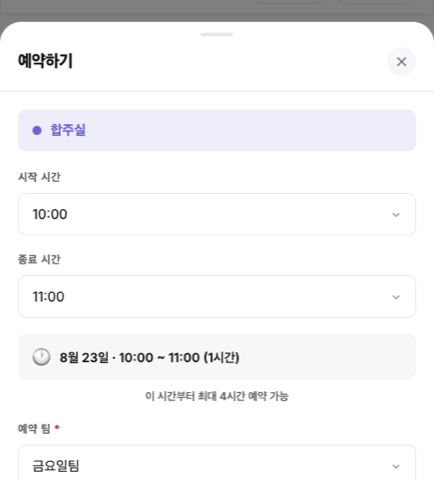
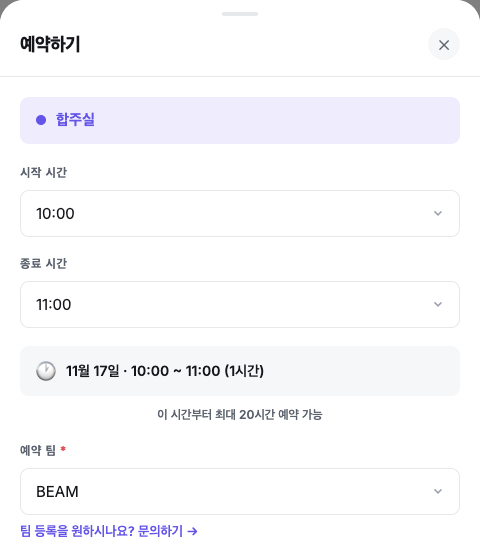
fix: 이용안내 — 팀 없이 예약 반영
'등록된 팀만 고를 수 있다' 는 '팀 없이 예약' 이 생긴 뒤로 틀린 말이다.
이름만 적으면 된다고 바꾸고, 예약 길이 상한('이틀까지')도 실제 규칙
(다음날 새벽까지)에 맞췄다. 예약 화면 캡처 5장을 지금 화면으로 다시
찍었다 (계좌 숫자는 가림).

diff --git a/frontend/guide.html b/frontend/guide.html
@@ -67,7 +67,8 @@
         </figure>
         <ul class="guide-list">
           <li><b>시작·종료 시간</b> — 자정을 넘겨 <b id="guideOvernight">다음날 새벽 6시</b>까지 고를 수 있습니다.</li>
-          <li><b>합주실</b> — 등록된 팀 중에서 고릅니다. 목록에 팀이 없으면 <b>문의하기</b> 로 등록을 요청해주세요.</li>
+          <li><b>합주실</b> — 등록된 팀 중에서 고릅니다. 팀이 없으면 맨 아래 <b>팀 없이 예약</b> 을 골라 이름만 적으면 됩니다
+              (연락처는 선택, 시간당 요금). 팀 등록은 <b>문의하기</b> 로 요청해주세요.</li>
           <li><b>개인연습실</b> — 이름을 적습니다. 도어즈 멤버이고 이번 달 회비가 확인되면 <b>무료로 바로 확정</b>됩니다.
               그렇지 않으면 시간당 요금이 붙고, 멤버가 아닌 분은 <b>연락처가 꼭 필요</b>합니다.</li>
           <li><b>참여 멤버 · 메모</b> — 안 적어도 됩니다.</li>
@@ -107,7 +108,7 @@
     <section class="guide-notes">
       <h2>알아두면 좋은 것</h2>
       <ul class="guide-list">
-        <li>한 번에 예약할 수 있는 시간은 <b>하루를 넘겨 이틀까지</b>입니다.</li>
+        <li>한 번에 이어서 잡을 수 있는 건 <b>다음날 새벽까지</b>입니다 (위 '시작·종료 시간'). 그보다 길면 나눠서 예약해주세요.</li>
         <li>입금 대기 중인 예약도 그 시간을 차지합니다. 겹쳐서 신청할 수 없습니다.</li>
         <li>팀 등록·변경은 관리자만 할 수 있습니다. <b>문의</b> 로 요청해주세요.</li>
         <li>같은 이름을 쓰는 멤버가 여러 명이면 자동으로 확인되지 않습니다. 이때도 <b>문의</b> 로 알려주세요.</li>

diff --git a/frontend/guide.js b/frontend/guide.js
@@ -16,7 +16,7 @@ function escHtml(str) {
 }
 
 const MODE_KO = {
-  team: '팀 단위로 예약합니다. 등록된 팀만 고를 수 있습니다.',
+  team: "팀 단위로 예약합니다. 팀이 없으면 '팀 없이 예약' 으로 이름만 적어도 됩니다.",
   personal: '개인이 예약합니다. 회원은 이름만, 회원이 아니면 연락처도 적습니다.',
 };
 
